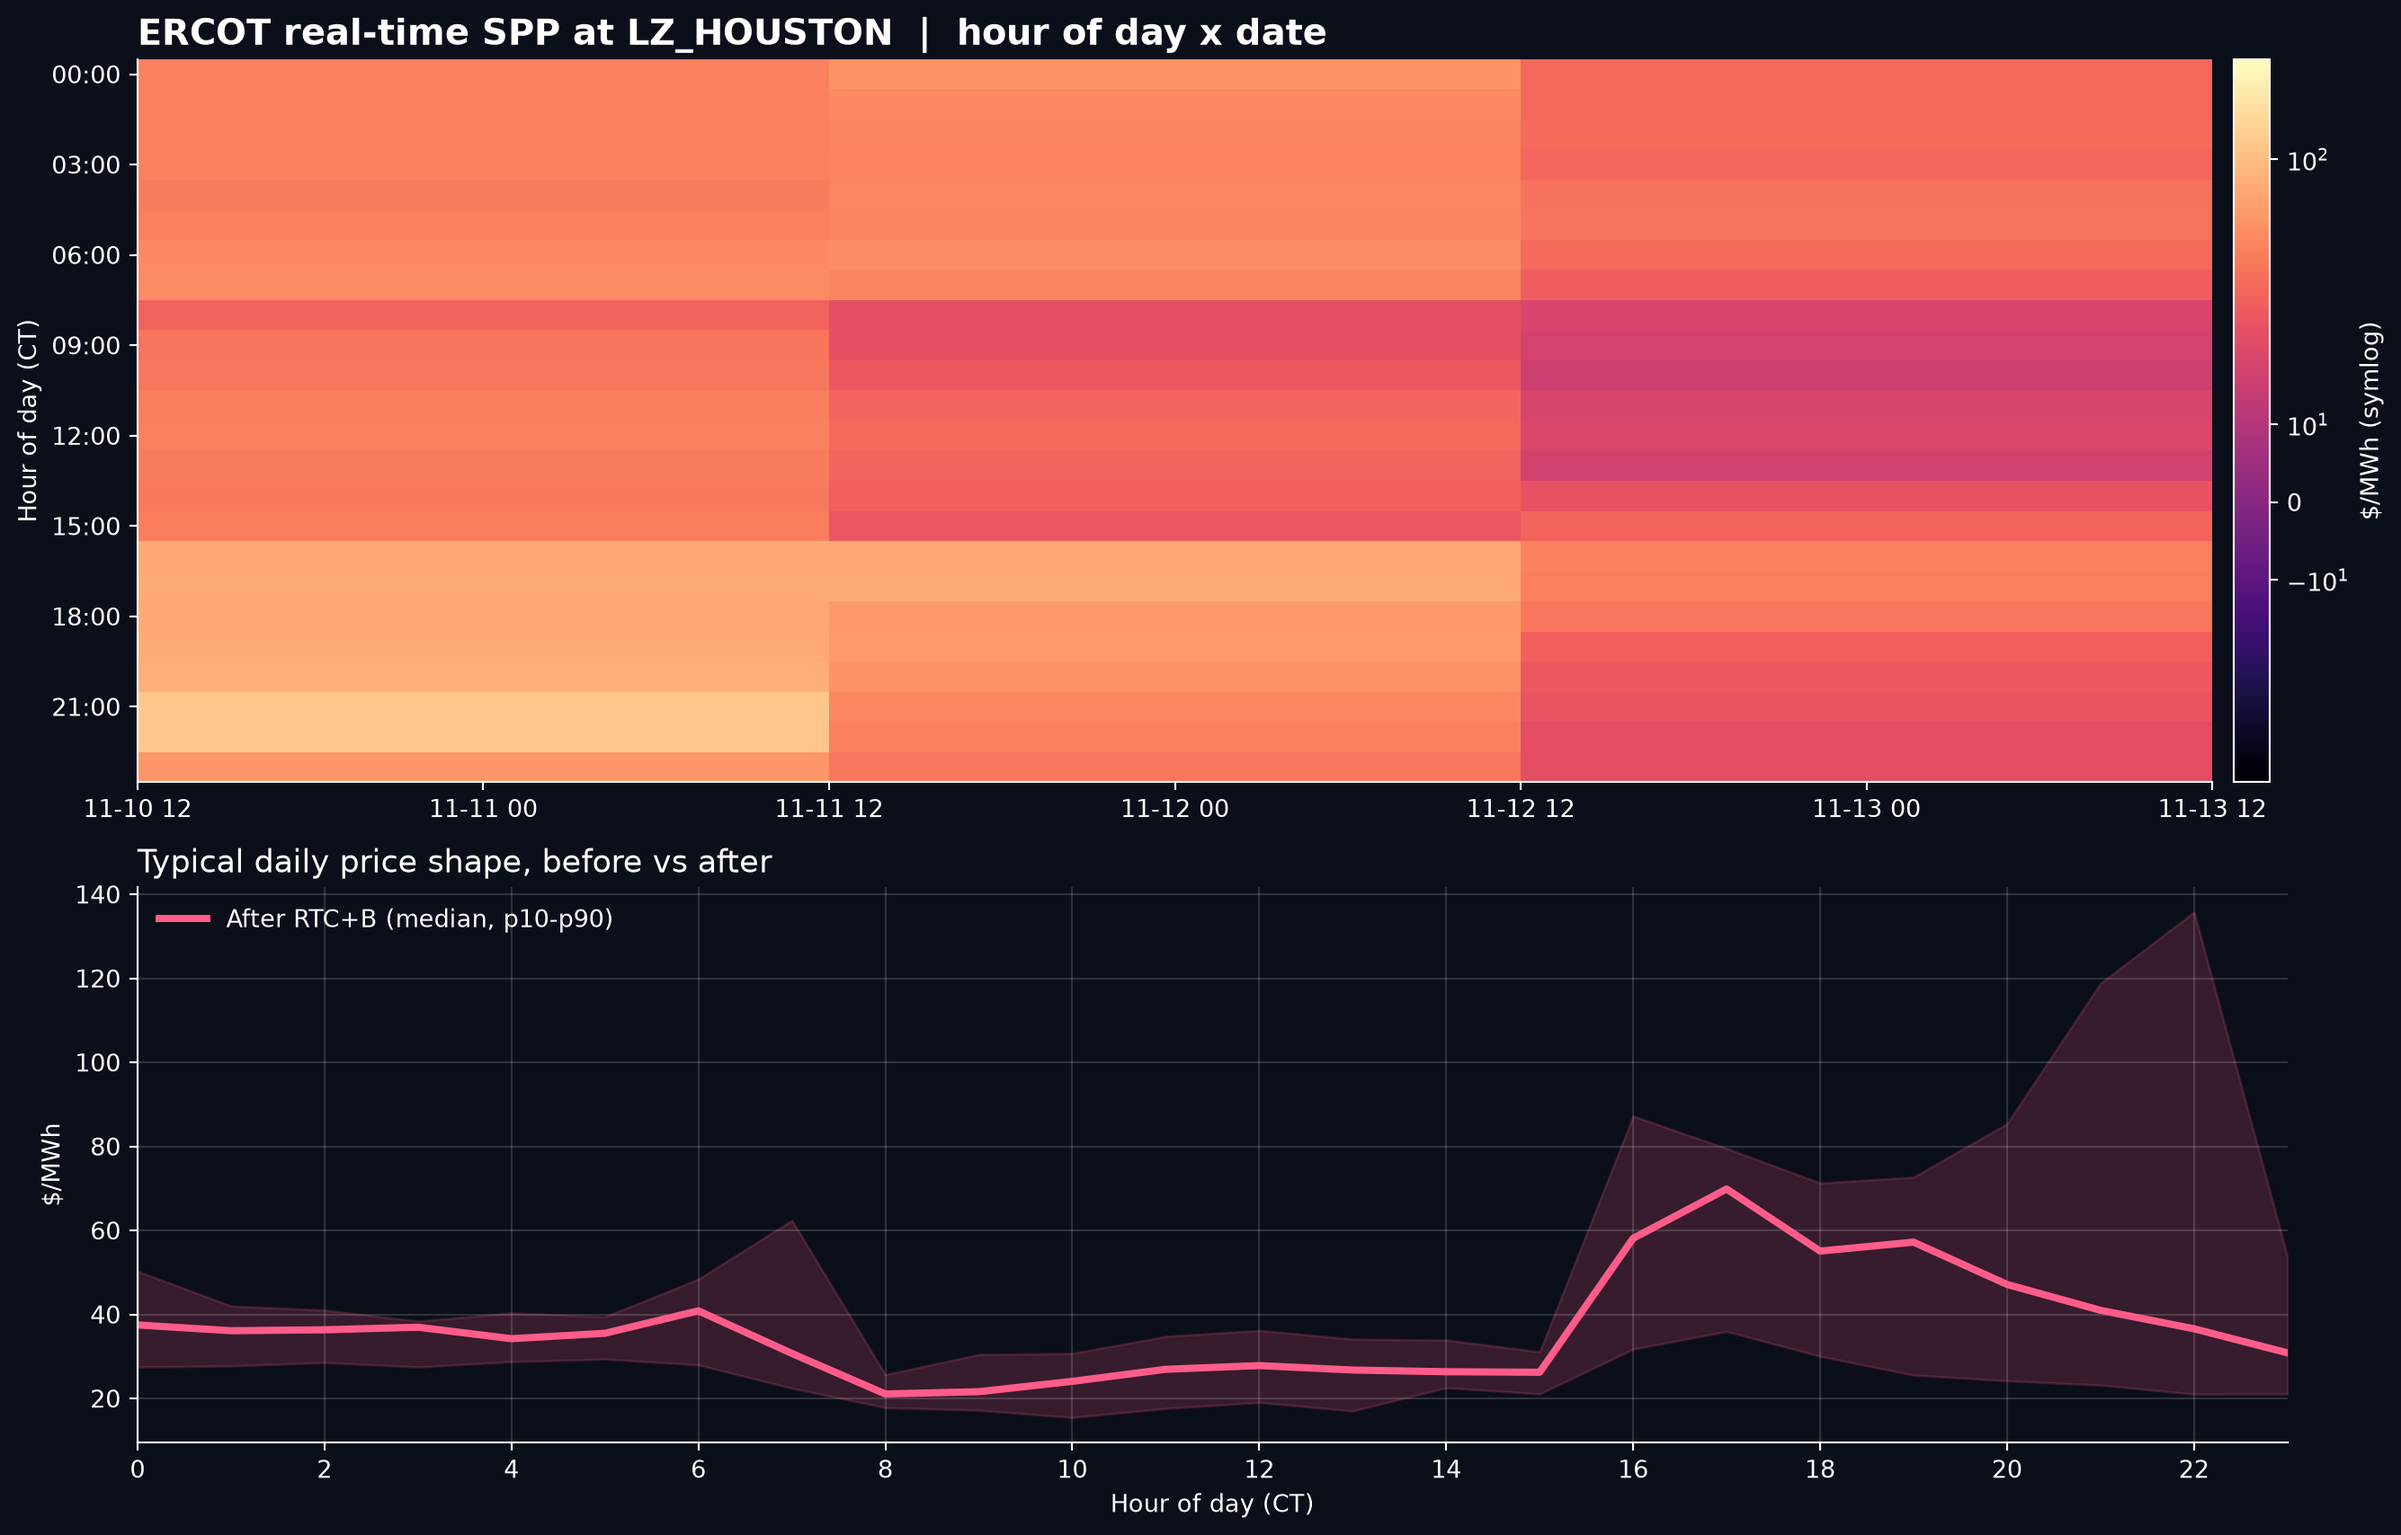
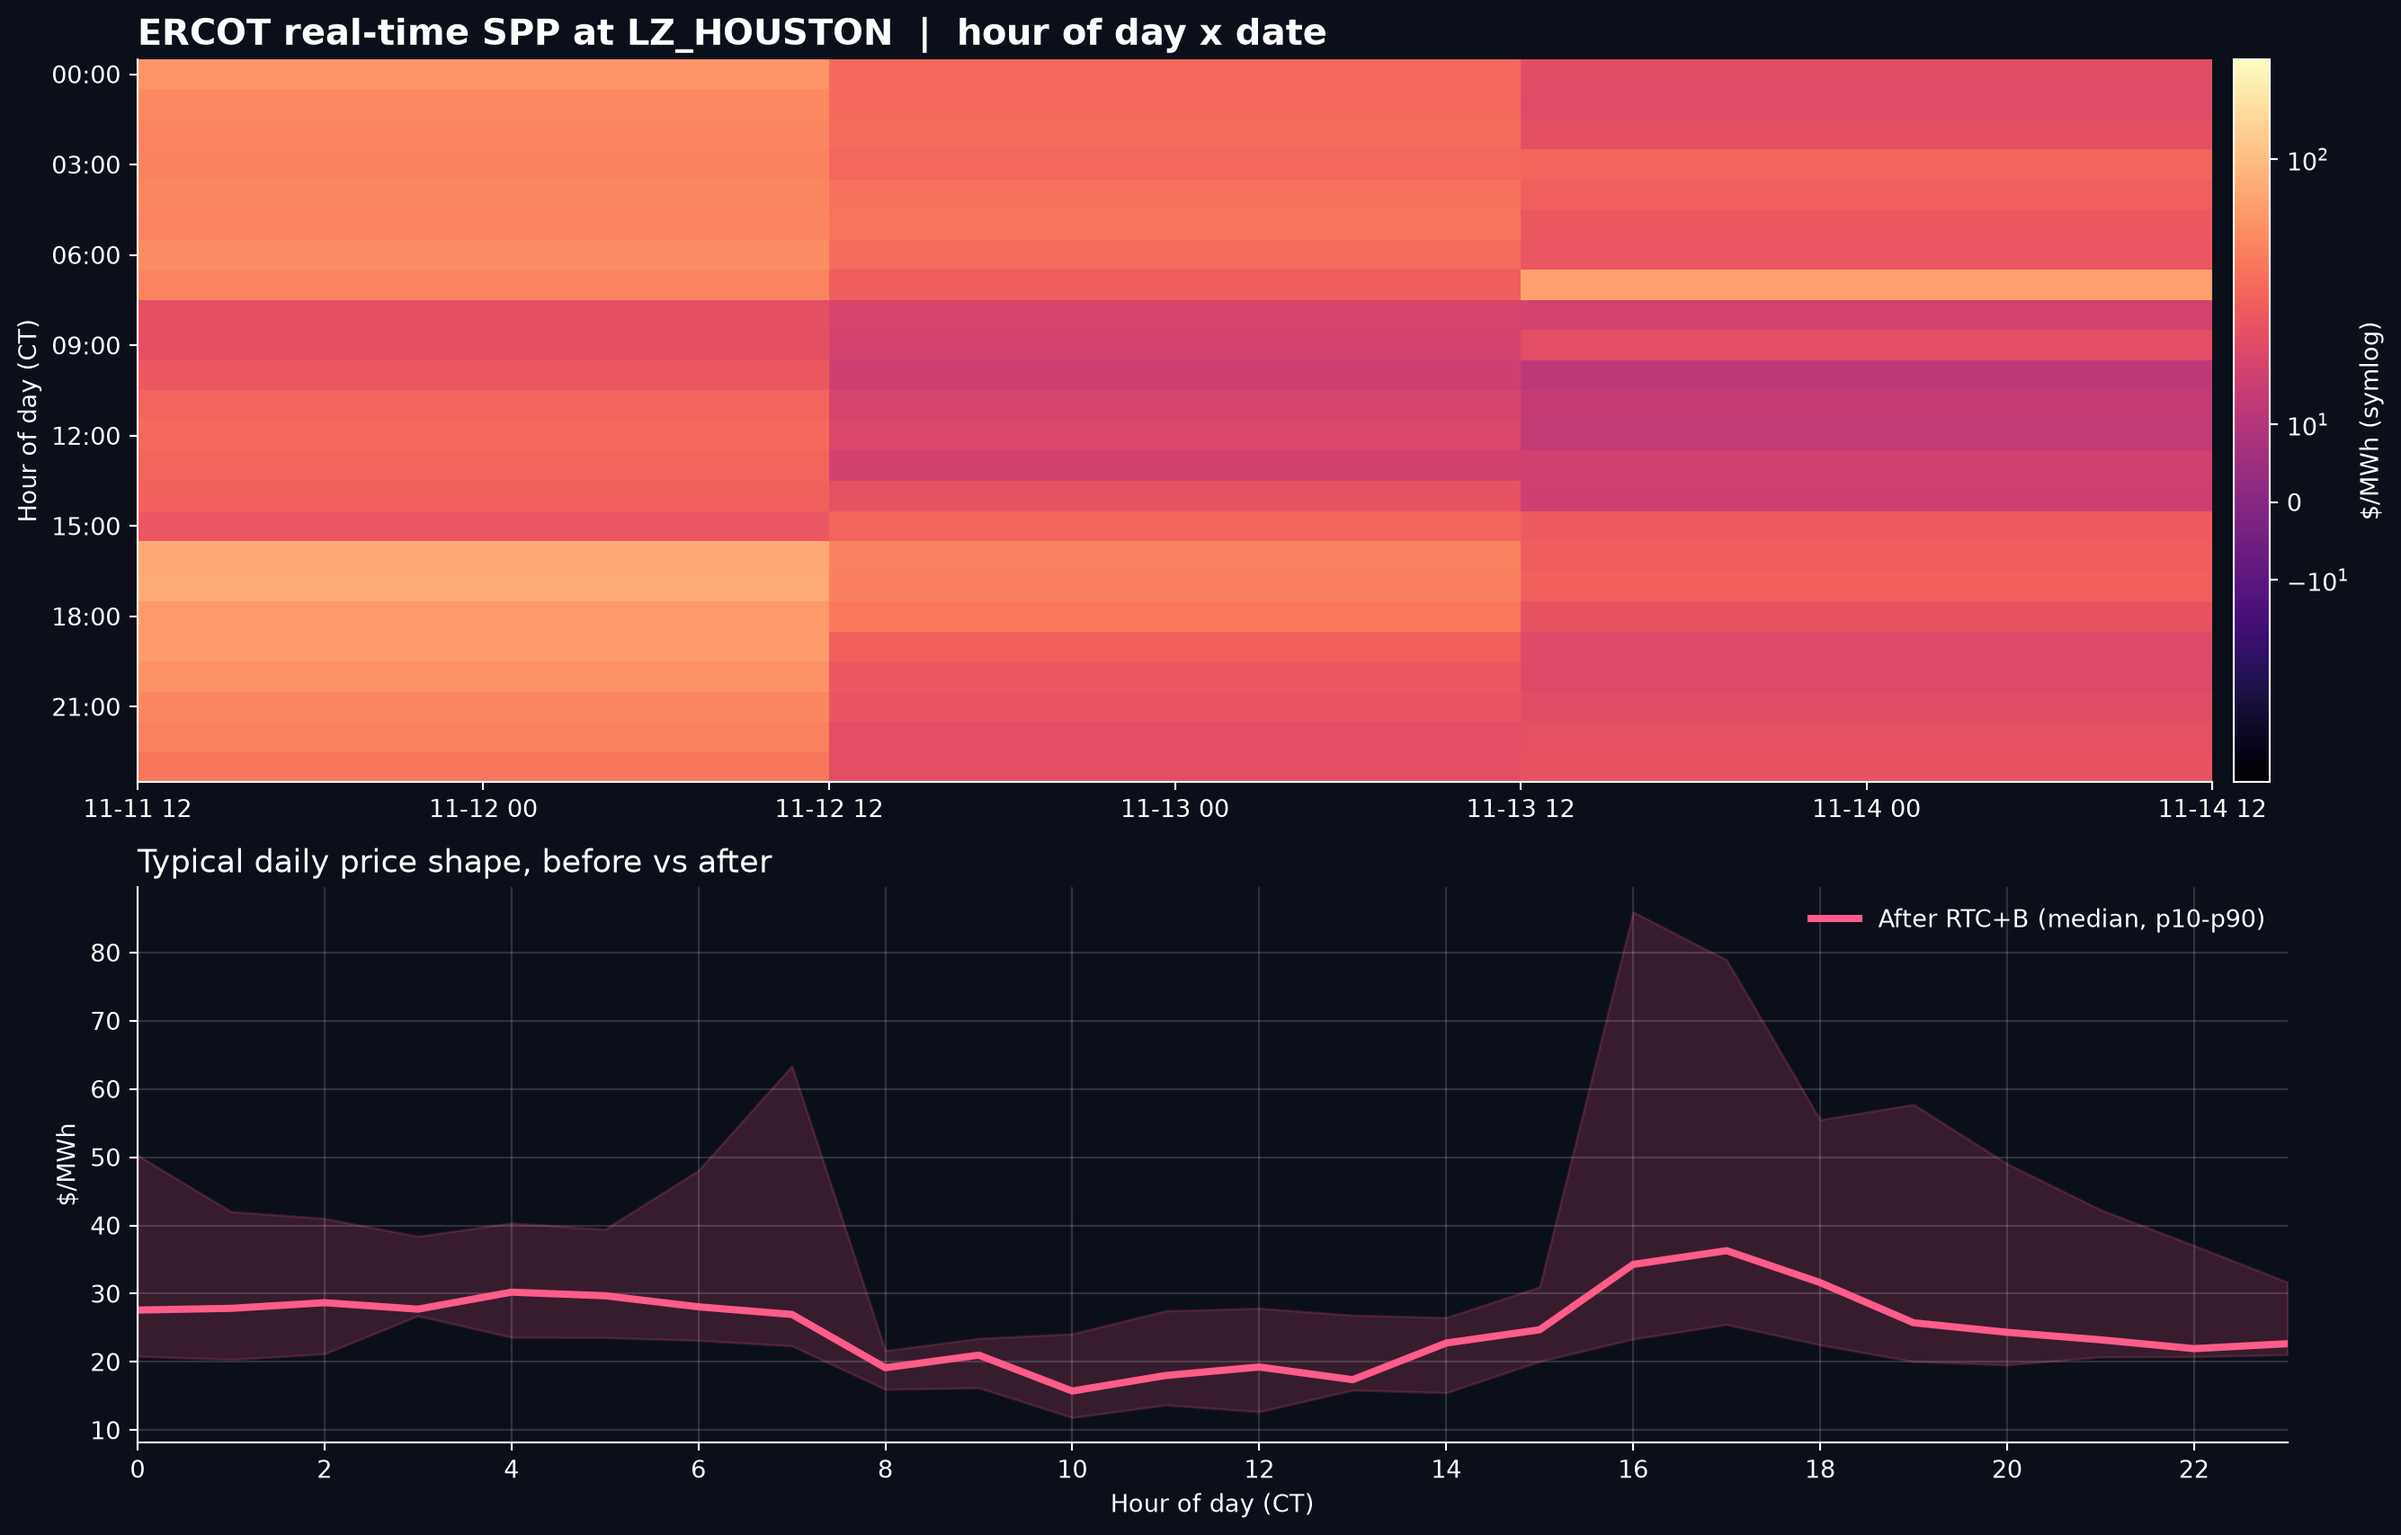
Built site for gh-pages

diff --git a/projects/ercot.html b/projects/ercot.html
@@ -215,58 +215,58 @@ pre > code.sourceCode > span > a:first-child::before { text-decoration: underlin
 <tbody>
 <tr class="odd">
 <th data-quarto-table-cell-role="th">0</th>
-<td>2026-11-11 00:00:00-06:00</td>
-<td>2026-11-11 06:00:00+00:00</td>
-<td>2026-11-11 00:15:00-06:00</td>
-<td>2026-11-11 06:15:00+00:00</td>
+<td>2026-11-12 00:00:00-06:00</td>
+<td>2026-11-12 06:00:00+00:00</td>
+<td>2026-11-12 00:15:00-06:00</td>
+<td>2026-11-12 06:15:00+00:00</td>
 <td>LZ_HOUSTON</td>
 <td>Load Zone</td>
 <td>REAL_TIME_15_MIN</td>
-<td>35.03</td>
+<td>50.34</td>
 </tr>
 <tr class="even">
 <th data-quarto-table-cell-role="th">1</th>
-<td>2026-11-11 00:00:00-06:00</td>
-<td>2026-11-11 06:00:00+00:00</td>
-<td>2026-11-11 00:15:00-06:00</td>
-<td>2026-11-11 06:15:00+00:00</td>
+<td>2026-11-12 00:00:00-06:00</td>
+<td>2026-11-12 06:00:00+00:00</td>
+<td>2026-11-12 00:15:00-06:00</td>
+<td>2026-11-12 06:15:00+00:00</td>
 <td>LZ_NORTH</td>
 <td>Load Zone</td>
 <td>REAL_TIME_15_MIN</td>
-<td>32.49</td>
+<td>63.99</td>
 </tr>
 <tr class="odd">
 <th data-quarto-table-cell-role="th">2</th>
-<td>2026-11-11 00:00:00-06:00</td>
-<td>2026-11-11 06:00:00+00:00</td>
-<td>2026-11-11 00:15:00-06:00</td>
-<td>2026-11-11 06:15:00+00:00</td>
+<td>2026-11-12 00:00:00-06:00</td>
+<td>2026-11-12 06:00:00+00:00</td>
+<td>2026-11-12 00:15:00-06:00</td>
+<td>2026-11-12 06:15:00+00:00</td>
 <td>LZ_SOUTH</td>
 <td>Load Zone</td>
 <td>REAL_TIME_15_MIN</td>
-<td>38.63</td>
+<td>76.28</td>
 </tr>
 <tr class="even">
 <th data-quarto-table-cell-role="th">3</th>
-<td>2026-11-11 00:00:00-06:00</td>
-<td>2026-11-11 06:00:00+00:00</td>
-<td>2026-11-11 00:15:00-06:00</td>
-<td>2026-11-11 06:15:00+00:00</td>
+<td>2026-11-12 00:00:00-06:00</td>
+<td>2026-11-12 06:00:00+00:00</td>
+<td>2026-11-12 00:15:00-06:00</td>
+<td>2026-11-12 06:15:00+00:00</td>
 <td>LZ_WEST</td>
 <td>Load Zone</td>
 <td>REAL_TIME_15_MIN</td>
-<td>63.63</td>
+<td>103.22</td>
 </tr>
 <tr class="odd">
 <th data-quarto-table-cell-role="th">4</th>
-<td>2026-11-11 00:15:00-06:00</td>
-<td>2026-11-11 06:15:00+00:00</td>
-<td>2026-11-11 00:30:00-06:00</td>
-<td>2026-11-11 06:30:00+00:00</td>
+<td>2026-11-12 00:15:00-06:00</td>
+<td>2026-11-12 06:15:00+00:00</td>
+<td>2026-11-12 00:30:00-06:00</td>
+<td>2026-11-12 06:30:00+00:00</td>
 <td>LZ_HOUSTON</td>
 <td>Load Zone</td>
 <td>REAL_TIME_15_MIN</td>
-<td>38.51</td>
+<td>53.87</td>
 </tr>
 </tbody>
 </table>
